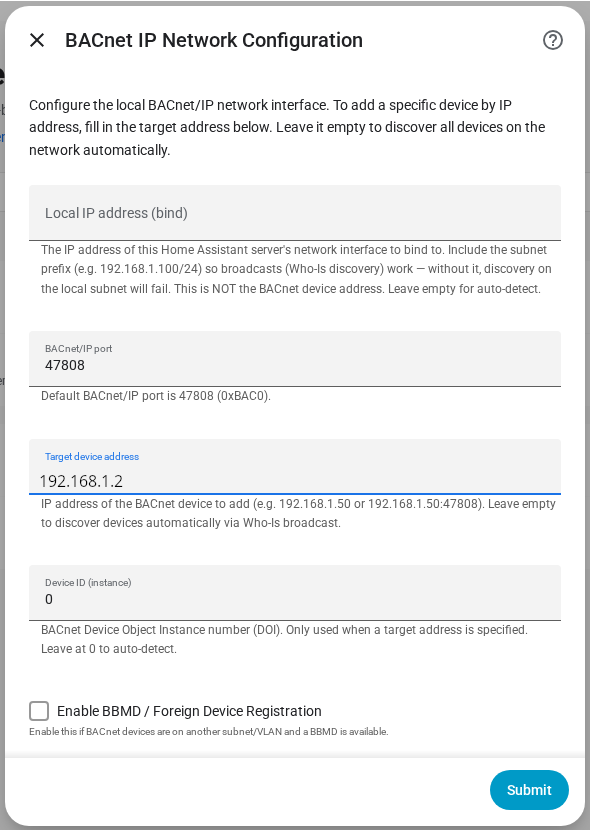
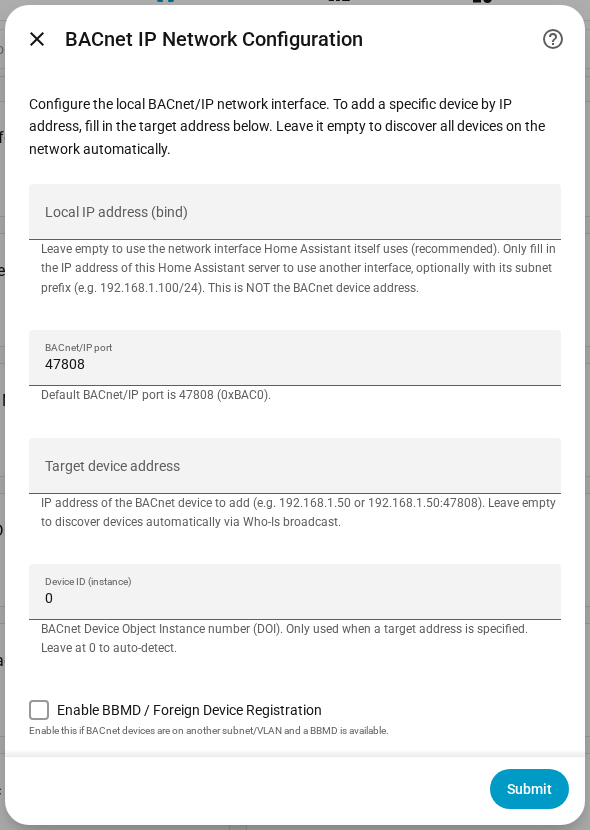
docs: new screenshots for 1.0.53 (#159)
New setup, options menu and customize objects screenshots from a real
controller on 1.0.53.

diff --git a/README.md b/README.md
@@ -106,28 +106,36 @@ What this integration writes to your devices, so you know before trying it on a 
 
 <table>
   <tr>
-    <td><img src="img/screenshots/01-setup-network.png" alt="Setup step 1: network settings and target device address"></td>
-    <td><img src="img/screenshots/02-setup-select-objects.png" alt="Setup: choose which objects to import, labelled with their descriptions"></td>
+    <td><img src="img/screenshots/01-setup-network.png" alt="Setup step 1: network settings, with the local IP address left empty"></td>
+    <td><img src="img/screenshots/02-setup-select-objects.png" alt="Setup: pick the objects to import and share usage statistics"></td>
   </tr>
   <tr>
     <td align="center">Setup: network settings</td>
     <td align="center">Setup: pick the objects to import</td>
   </tr>
   <tr>
+    <td><img src="img/screenshots/09-options-menu.png" alt="The options menu with Settings, Rescan device and Customize objects"></td>
+    <td><img src="img/screenshots/06-customize-objects.png" alt="Customize objects with entity type, COV and state class for a sensor"></td>
+  </tr>
+  <tr>
+    <td align="center">Options: settings, rescan, customize</td>
+    <td align="center">Entity type, COV and state class per object</td>
+  </tr>
+  <tr>
     <td><img src="img/screenshots/04-entity-attributes.png" alt="Sensor details with the bacnet_* attributes"></td>
-    <td><img src="img/screenshots/06-customize-objects.png" alt="Customize objects with the list of extra properties"></td>
+    <td><img src="img/screenshots/07-climate.png" alt="Climate entity for a room setpoint with the return air temperature as current temperature"></td>
   </tr>
   <tr>
     <td align="center">BACnet attributes on every entity</td>
-    <td align="center">Extra properties per object</td>
-  </tr>
-  <tr>
-    <td><img src="img/screenshots/07-climate.png" alt="Climate entity for a room setpoint with the return air temperature as current temperature"></td>
-    <td><img src="img/screenshots/08-active-alarms.png" alt="Active alarms sensor listing a high-limit alarm"></td>
-  </tr>
-  <tr>
     <td align="center">Setpoint as a climate entity</td>
+  </tr>
+  <tr>
+    <td><img src="img/screenshots/08-active-alarms.png" alt="Active alarms sensor listing a high-limit alarm"></td>
+    <td></td>
+  </tr>
+  <tr>
     <td align="center">Active alarms from the controller</td>
+    <td></td>
   </tr>
 </table>
 
